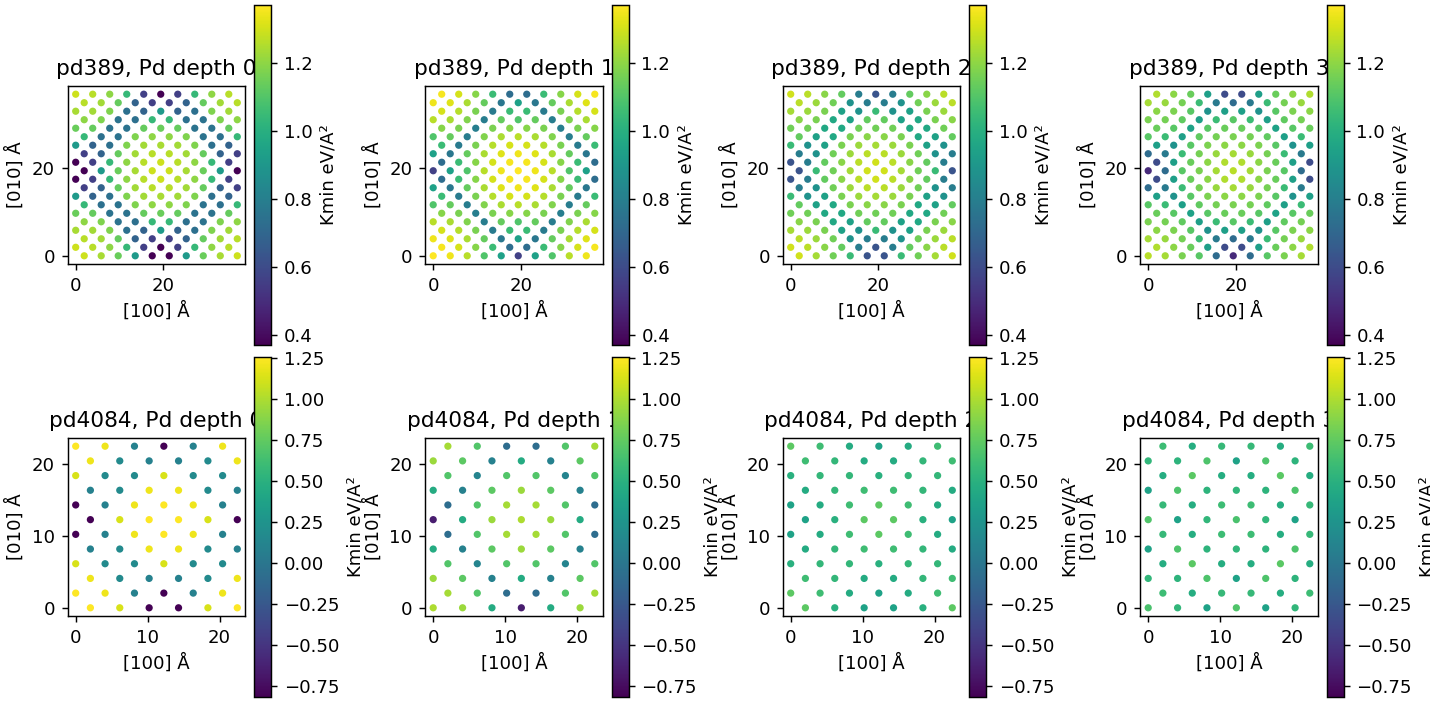
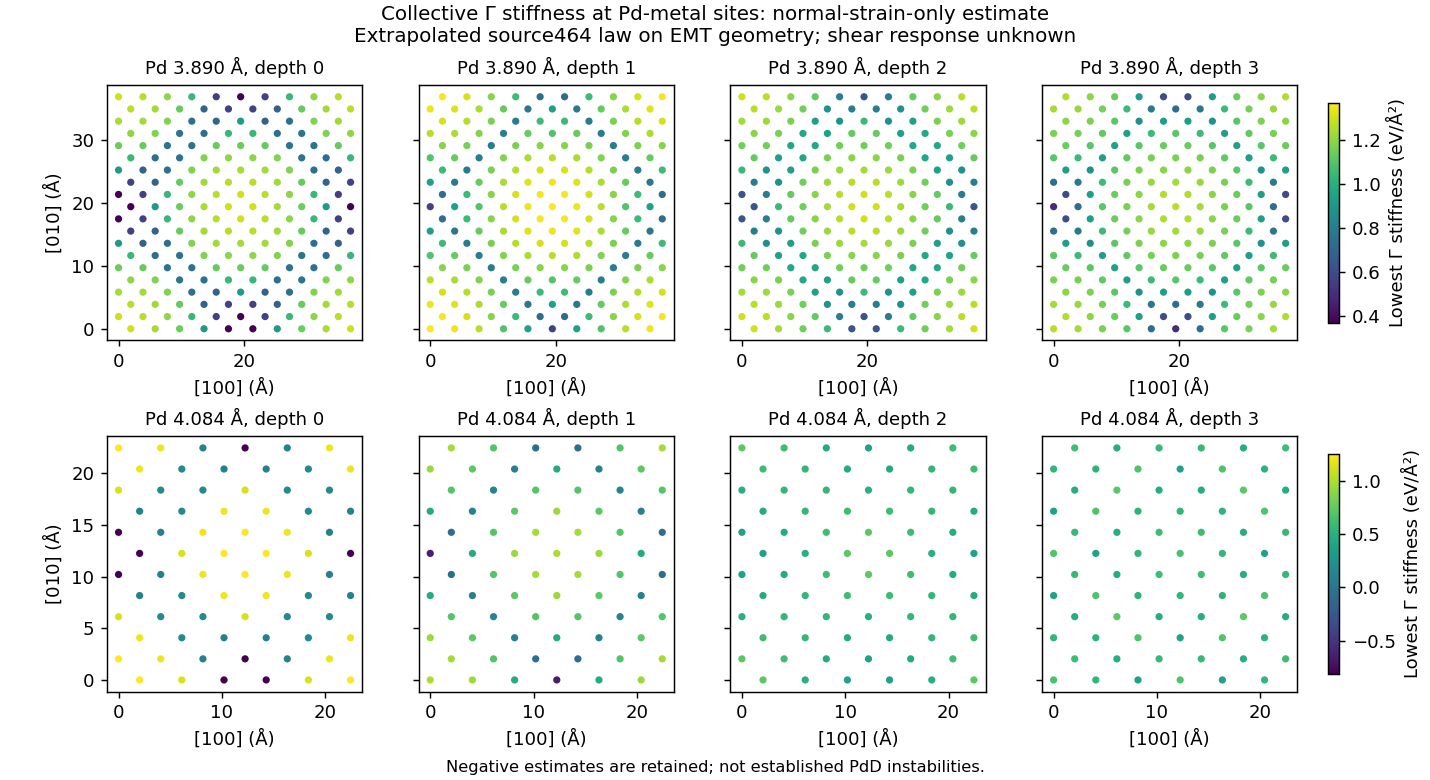
g3_skew: clearer stiffness figure

Changed region(s): [[0.0, 0.0, 1.0, 1.0]]

diff --git a/g3_skew/mismatch.py b/g3_skew/mismatch.py
@@ -297,9 +297,6 @@ def export_fcc(out, d, a, n):
             'source':'octahedral_maps.npz, not metal_maps.npz'}
 
 def maps():
-    import matplotlib
-    matplotlib.use('Agg')
-    import matplotlib.pyplot as plt
     source_path = ROOT/'adopted-strains.json'
     source = json.loads(source_path.read_text())
     row = next(v for v in source['model_inputs'] if v['material'] == 'PdD')
@@ -317,9 +314,6 @@ def maps():
                'frozen_J_contrast_contract':'For source bulk a0=4.084 A: Kii_effective=Kii_source+DeltaK_law_bulk, J unchanged. DeltaK_matched_bulk isolates contrast about same-aPd cubic baseline; background compression is separately explicit.',
                'missing_physics':['independent cubic shear-response coefficient','strained onsite/inter-site split','hydride metal geometry response','part A law'],
                'shear_response_coefficient': None, 'affine_rigid_motion_check': affine_check(), 'cases': {}}
-    fig, axes = plt.subplots(2,4,figsize=(11,5.4),constrained_layout=True)
-    softfig, softaxes = plt.subplots(2,4,figsize=(11,5.4),constrained_layout=True)
-    depthfig, daxes = plt.subplots(1,2,figsize=(8,3.4),constrained_layout=True)
     for ci, (case,(a,n,m)) in enumerate(CASES.items()):
         out = ROOT/case
         reference, atoms = read(out/'reference.extxyz'), read(out/'relaxed.extxyz')
@@ -361,27 +355,8 @@ def maps():
                            'fixed': li < 2, 'mean_strain_geometry': (stretch-np.eye(3)).mean(axis=0).tolist(),
                            'nonaffinity_RMS_A': float(np.sqrt(np.mean(residual[select]**2)))})
             layers.append(metric)
-        for li in range(4):
-            mask = (5-layer) == li
-            xy = reference.positions[ids[mask],:2]
-            shown_depth = 0 if li < 2 else 3
-            shown = (5-layer) == shown_depth
-            shown_xy = reference.positions[ids[shown],:2]
-            strain = result['strain_geometry'][shown]
-            shear = np.sqrt(2*np.sum(strain[:,np.triu_indices(3,1)[0],np.triu_indices(3,1)[1]]**2,axis=1))
-            strain_scalar = shear if li % 2 else np.trace(strain,axis1=1,axis2=2)
-            label = 'shear Frobenius' if li % 2 else 'tr(U-I)'
-            artist=axes[ci,li].scatter(shown_xy[:,0],shown_xy[:,1],c=strain_scalar,s=9,cmap='coolwarm')
-            fig.colorbar(artist,ax=axes[ci,li],label=label)
-            axes[ci,li].set(title=f'{case}, depth {shown_depth}',xlabel='[100] Å',ylabel='[010] Å',aspect='equal')
-            artist=softaxes[ci,li].scatter(xy[:,0],xy[:,1],c=Kmin[mask],s=9,cmap='viridis',vmin=Kmin.min(),vmax=Kmin.max())
-            softfig.colorbar(artist,ax=softaxes[ci,li],label='Kmin eV/A²')
-            softaxes[ci,li].set(title=f'{case}, Pd depth {li}',xlabel='[100] Å',ylabel='[010] Å',aspect='equal')
         layers.sort(key=lambda x:x['layer_from_interface'])
-        depth = np.array([v['nominal_depth_A'] for v in layers])
         rms = np.array([v['rms_modulation_Frobenius'] for v in layers])
-        daxes[0].plot(depth,rms,'o-',label=case)
-        daxes[1].plot(depth,[v['nonaffinity_RMS_A'] for v in layers],'o-',label=case)
         low = int(Kmin.argmin())
         normal_law = np.diagonal(result['strain_law'],axis1=1,axis2=2)
         result['shear_magnitude_geometry'] = np.sqrt(2*np.sum(result['strain_geometry'][:,np.triu_indices(3,1)[0],np.triu_indices(3,1)[1]]**2,axis=1))
@@ -418,6 +393,60 @@ def maps():
                    'relaxation': json.loads((out/'relaxation.json').read_text())}
         summary['cases'][case]=details
         print(case,json.dumps({k:v for k,v in details.items() if k not in ('layers','relaxation')}),flush=True)
+    dump(ROOT/'summary.json',summary)
+    plots()
+
+def plots():
+    """Render only saved arrays/statistics; never rewrite numerical outputs or geometry."""
+    import matplotlib
+    matplotlib.use('Agg')
+    import matplotlib.pyplot as plt
+    summary = json.loads((ROOT/'summary.json').read_text())
+    fig, axes = plt.subplots(2,4,figsize=(11,5.4),constrained_layout=True)
+    softfig, softaxes = plt.subplots(2,4,figsize=(11,6.0),sharey='row',constrained_layout=True)
+    depthfig, daxes = plt.subplots(1,2,figsize=(8,3.4),constrained_layout=True)
+    softfig.suptitle(
+        'Collective Γ stiffness at Pd-metal sites: normal-strain-only estimate\n'
+        'Extrapolated source464 law on EMT geometry; shear response unknown',
+        fontsize=11)
+    softfig.supxlabel(
+        'Negative estimates are retained; not established PdD instabilities.',
+        fontsize=9)
+    for ci, (case,(a,n,m)) in enumerate(CASES.items()):
+        with np.load(ROOT/case/'metal_maps.npz') as data:
+            xy = data['reference_positions_A'][:,:2]
+            depths = data['depth_layer_from_interface']
+            strain = data['strain_geometry']
+            shear = data['shear_magnitude_geometry']
+            Kmin = data['lowest_eigenvalue_eV_A2']
+            for li in range(4):
+                shown_depth = 0 if li < 2 else 3
+                shown = depths == shown_depth
+                strain_scalar = shear[shown] if li % 2 else np.trace(strain[shown],axis1=1,axis2=2)
+                label = 'shear Frobenius' if li % 2 else 'tr(U-I)'
+                artist = axes[ci,li].scatter(
+                    xy[shown,0],xy[shown,1],c=strain_scalar,s=9,cmap='coolwarm')
+                fig.colorbar(artist,ax=axes[ci,li],label=label)
+                axes[ci,li].set(
+                    title=f'{case}, depth {shown_depth}',
+                    xlabel='[100] Å',ylabel='[010] Å',aspect='equal')
+                mask = depths == li
+                soft_artist = softaxes[ci,li].scatter(
+                    xy[mask,0],xy[mask,1],c=Kmin[mask],s=9,cmap='viridis',
+                    vmin=Kmin.min(),vmax=Kmin.max())
+                softaxes[ci,li].set(
+                    xlabel='[100] (Å)',aspect='equal')
+                softaxes[ci,li].set_title(f'Pd {a:.3f} Å, depth {li}',fontsize=10)
+            softaxes[ci,0].set_ylabel('[010] (Å)')
+            softfig.colorbar(
+                soft_artist,ax=list(softaxes[ci]),label='Lowest Γ stiffness (eV/Å²)',
+                shrink=.86,pad=.025,fraction=.035)
+        layers = summary['cases'][case]['layers']
+        depth = [row['nominal_depth_A'] for row in layers]
+        daxes[0].plot(
+            depth,[row['rms_modulation_Frobenius'] for row in layers],'o-',label=case)
+        daxes[1].plot(
+            depth,[row['nonaffinity_RMS_A'] for row in layers],'o-',label=case)
     for ax in daxes:
         ax.set(xlabel='Nominal depth below top Pd layer (Å)')
         ax.legend()
@@ -427,15 +456,16 @@ def maps():
     softfig.savefig(ROOT/'stiffness_maps.png',dpi=130)
     depthfig.savefig(ROOT/'penetration.png',dpi=130)
     plt.close('all')
-    dump(ROOT/'summary.json',summary)
 
 if __name__ == '__main__':
     parser = argparse.ArgumentParser(description=__doc__)
-    parser.add_argument('action',choices=['relax','maps'])
+    parser.add_argument('action',choices=['relax','maps','plots'])
     parser.add_argument('--case',choices=CASES,default='pd389')
     parser.add_argument('--steps',type=int,default=1200)
     args=parser.parse_args()
     if args.action=='relax':
         relax(args.case,args.steps)
-    else:
+    elif args.action=='maps':
         maps()
+    else:
+        plots()
